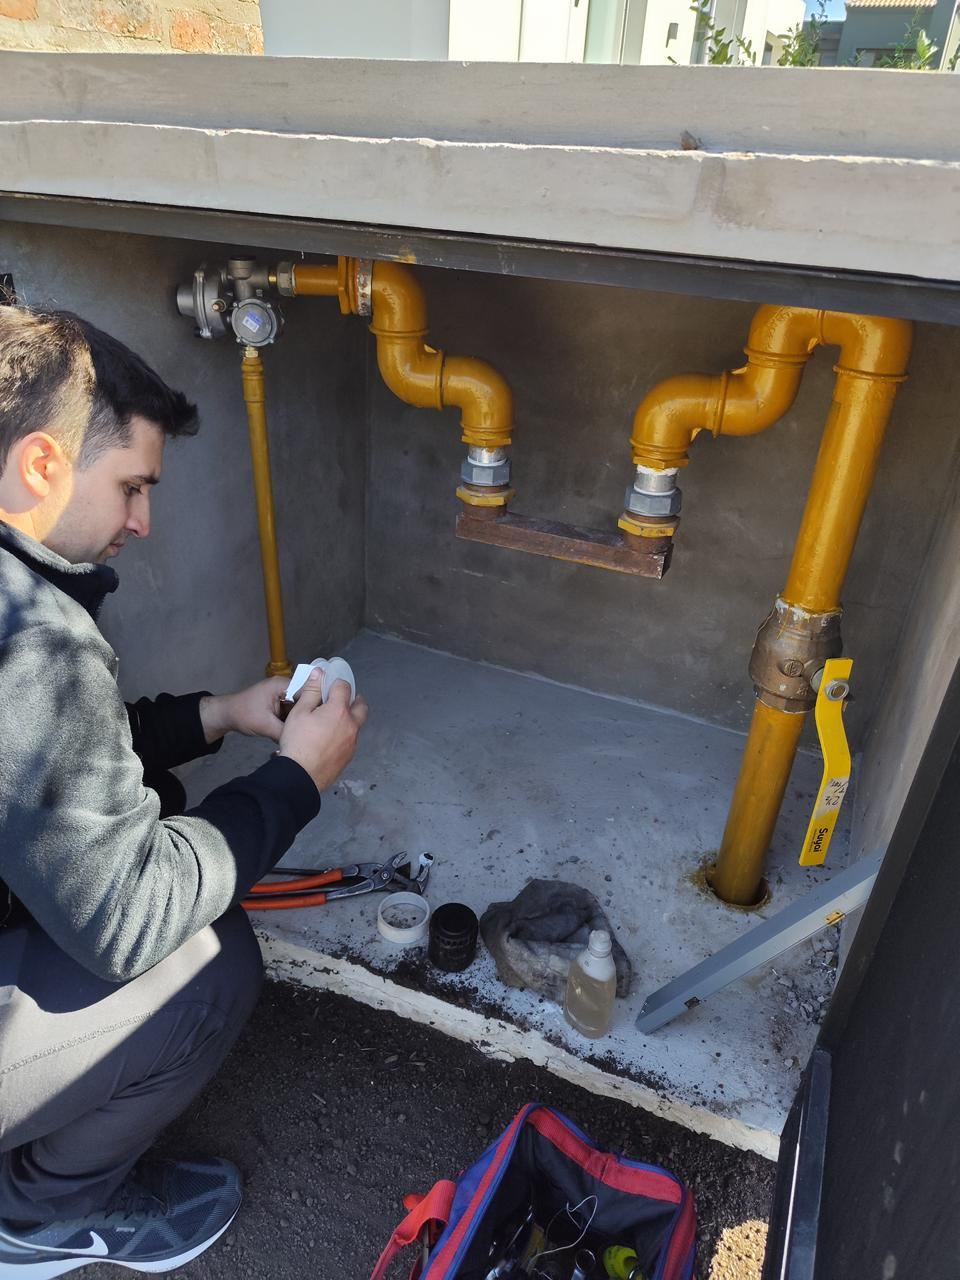
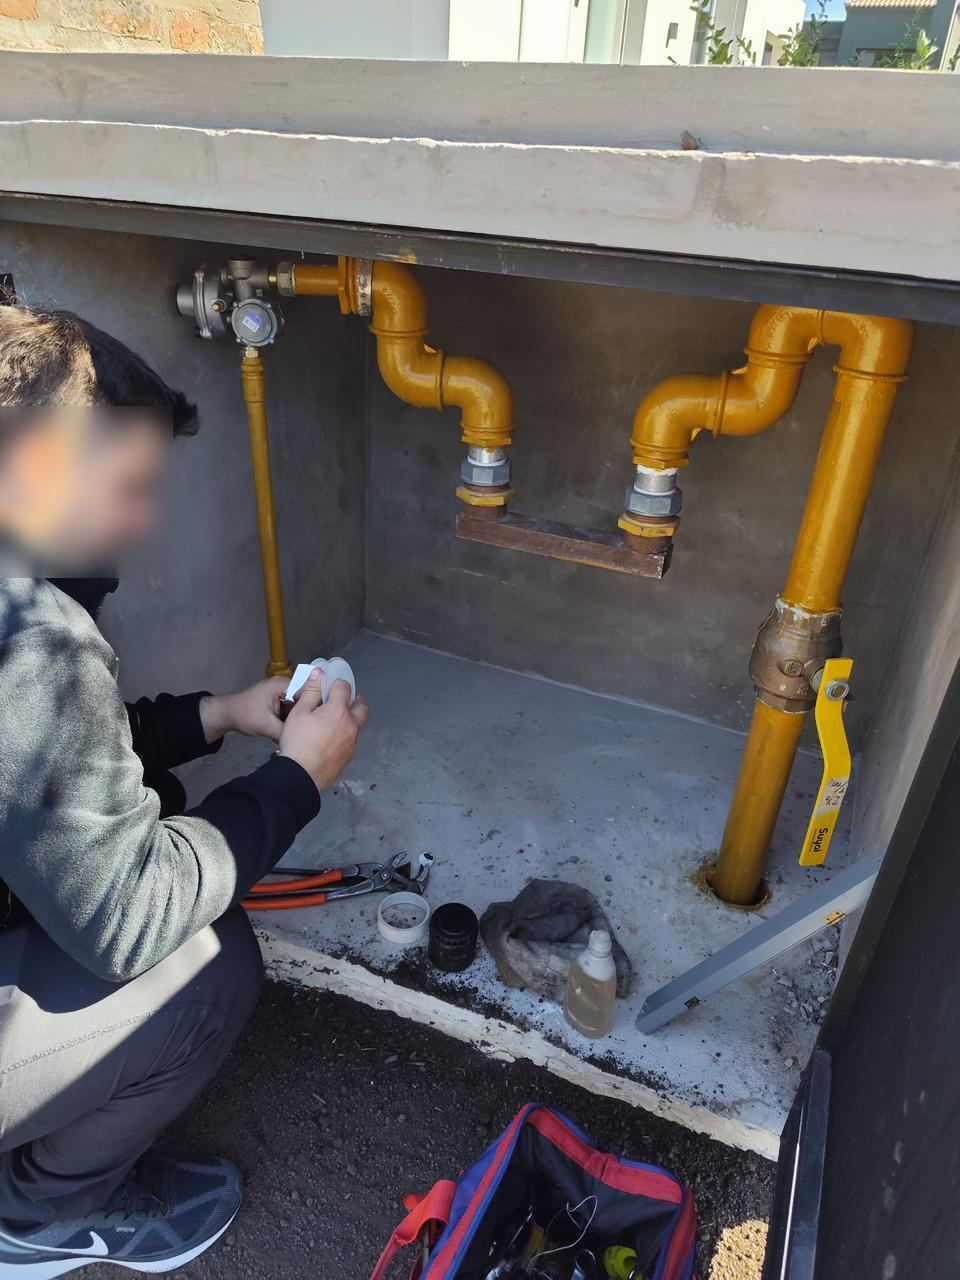
Agregado de fotos

Changed region(s): [[0.0, 0.3125, 0.1875, 0.4688]]

diff --git a/index.php b/index.php
@@ -148,6 +148,12 @@ if (session_status() == PHP_SESSION_NONE) {
                         <div class="carousel-slide">
                             <img src="./assets/images/12.jpg" alt="Grupo Crear SRL">
                         </div>
+                        <div class="carousel-slide">
+                            <img src="./assets/images/13.jpeg" alt="Grupo Crear SRL">
+                        </div>
+                        <div class="carousel-slide">
+                            <img src="./assets/images/14.jpg" alt="Grupo Crear SRL">
+                        </div>
 
                         <!-- Flechas -->
                         <button class="carousel-btn prev">&#10094;</button>

diff --git a/views/galeria.php b/views/galeria.php
@@ -89,6 +89,8 @@ if (session_status() == PHP_SESSION_NONE) {
                     <img src="../assets/images/10.jpeg" alt="Grupo Crear SRL">
                     <img src="../assets/images/11.jpg" alt="Grupo Crear SRL">
                     <img src="../assets/images/12.jpg" alt="Grupo Crear SRL">
+                    <img src="../assets/images/13.jpeg" alt="Grupo Crear SRL">
+                    <img src="../assets/images/14.jpg" alt="Grupo Crear SRL">
                 </div>
             </section>
 
